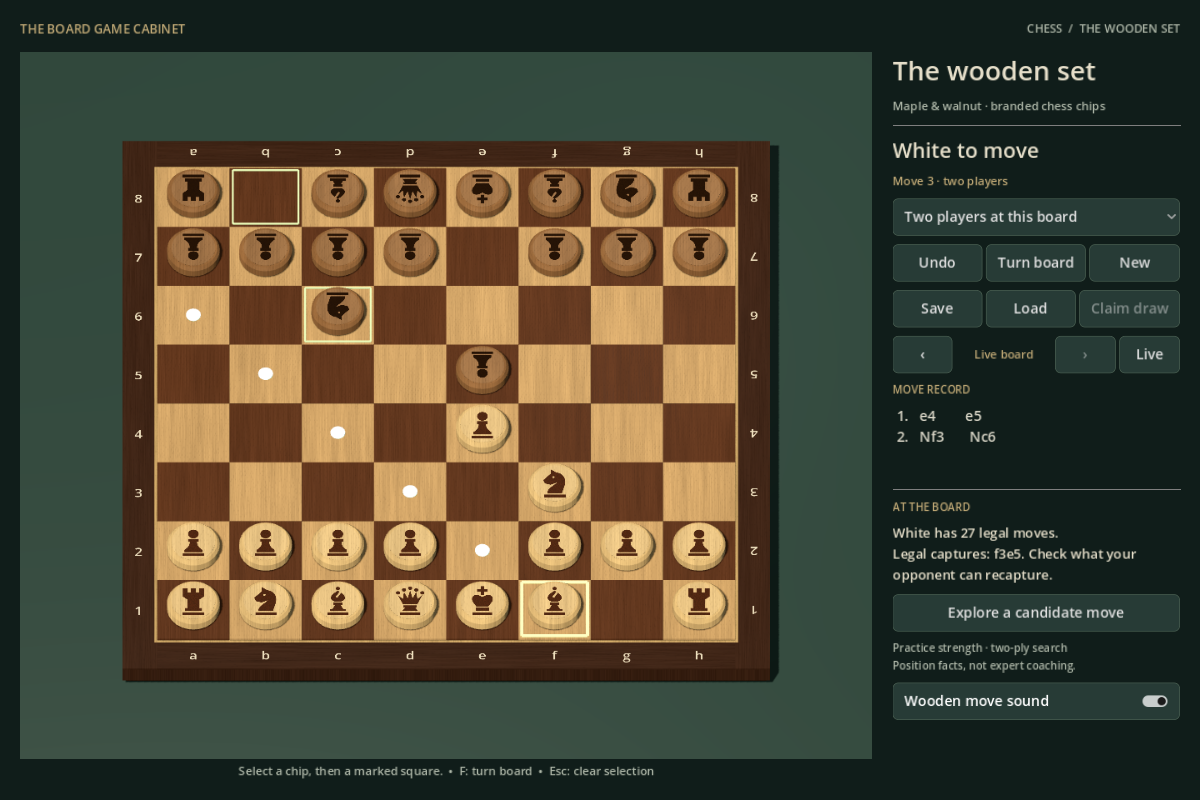
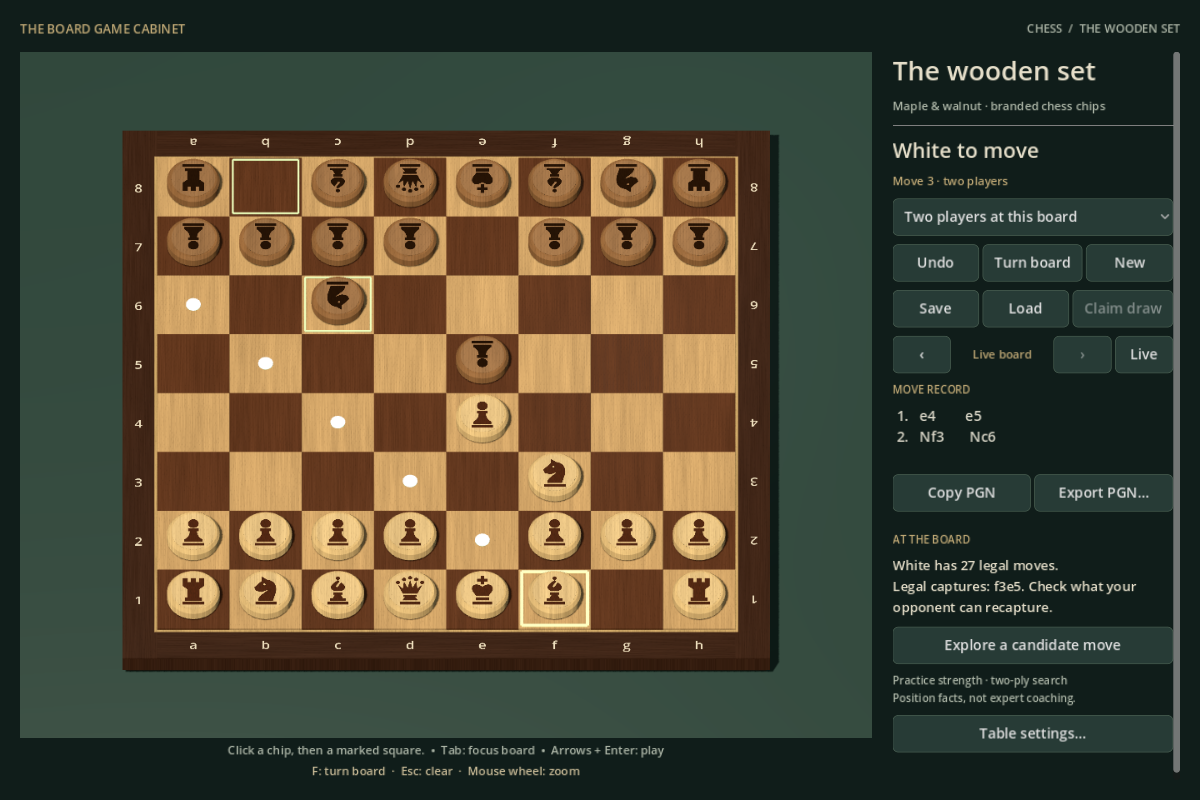
test: record keyboard dialog and refreshed Windows build verification

Changed region(s): [[0.0925, 0.1562, 0.6475, 0.875], [0.0, 0.0625, 0.9867, 0.9688], [0.8017, 0.4375, 0.8633, 0.4688]]

diff --git a/docs/VERIFICATION.md b/docs/VERIFICATION.md
@@ -49,7 +49,9 @@ The first full-screen render revealed header wrapping that expanded the layout a
 
 The continuation implementation passed `tools/verify.ps1 -Godot <exe> -Graphics`: five headless suites and three native suites. The unchanged oracle still covers 960 positions and 23,179 legal moves, and the board suite still reports 136 checks. PGN reports 176 checks on its default run; its fixture-producing run adds one file-open assertion. Fourteen PGN fixtures were independently replayed with python-chess.
 
-New coverage exercises keyboard square navigation under both camera orientations, Enter/Space move submission, Escape cancellation, promotion focus, settings persistence and recovery, reduced motion, full-game PGN export while reviewing history, and intended-move draw declarations. These supplement the existing state-authority, special-move, save/load and practice-opponent checks. The latest UI hint/opponent timing regression test awaits the coordinator's final rerun; final continuation graphics/export inspection is ongoing. No final CI or new exported-build success is claimed by this continuation record.
+New coverage exercises keyboard square navigation under both camera orientations, Enter/Space move submission, Escape cancellation, promotion focus, settings persistence and recovery, reduced motion, full-game PGN export, and intended-move draw declarations. These supplement the existing state-authority, special-move, save/load and practice-opponent checks. The hint/opponent timing regression passed in the final native app rerun. Keyboard and modal captures were inspected, and both normal and minimum window sizes fit the updated controls. The Windows executable was rebuilt, launched, captured and exited with code 0. The expanded headless suites passed in [CI at 0ef94e0](https://github.com/dancockrell/board-game-cabinet/actions/runs/33966664791); subsequent dialog-only changes also passed the native controls suite.
+
+Visual QA caught explanatory text hidden behind the custom controls in the initial draw and settings dialogs. Both dialogs now put explanation and controls in one vertical layout; fresh screenshots confirm readable text and focus outlines. The keyboard cursor uses cyan corner brackets and a square/piece caption, distinct from the selected-square outline and legal destination dots.
 
 Delivered controls are Tab to focus the board, arrows to navigate visually, Enter/Space to select and move, and Escape to clear selection. Table settings expose sound and reduced motion. Orientation and opponent mode persist alongside those settings; camera zoom remains temporary. Copy PGN and Export PGN operate on the complete authoritative live game. The draw chooser can declare a qualifying next move, retaining the unchanged board and played history while recording the claim metadata.
 

diff --git a/docs/PLAN.md b/docs/PLAN.md
@@ -61,7 +61,7 @@ The implemented breadth exceeds a bare board prototype. It still does not close 
 
 The continuation adds keyboard board play, modal promotion, persisted table preferences, PGN copy/export and intended-next-move draw declarations. The declarations are validated without playing the move and are retained in save metadata. The brand shader adds subtle height-normal detail; carved symbol geometry and final visual approval remain open.
 
-The complete local eight-suite command passed for the continuation implementation. The latest UI hint/opponent timing regression test is awaiting the coordinator's final rerun, and updated export/capture review is ongoing. No final continuation CI or exported-build success is asserted here; the CI link above describes the earlier checkpoint only.
+The complete local eight-suite command passed for the continuation implementation, followed by native reruns of the keyboard/dialog and hint/opponent timing regressions. Normal/minimum window captures and the custom dialogs were inspected. The Windows build was rebuilt, launched, captured and exited successfully. Expanded headless CI passed at `0ef94e0`; exact evidence and remaining acceptance limits are recorded in `docs/VERIFICATION.md`.
 
 | Completed handoff | Actual files and check |
 | --- | --- |
